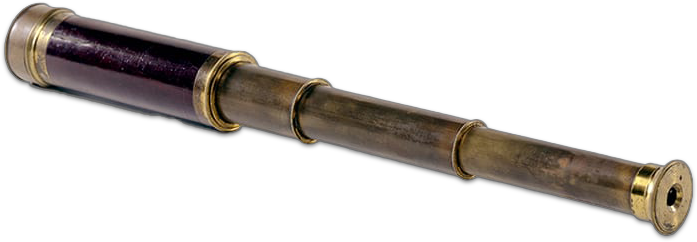
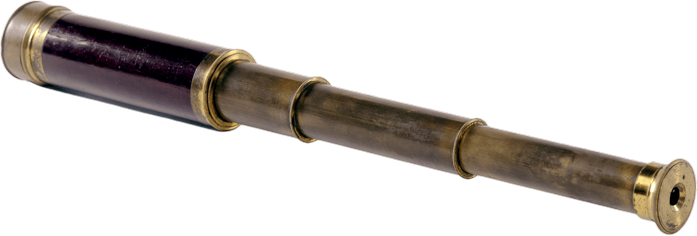
use better quality spyglass image

diff --git a/src/spyglass.html b/src/spyglass.html
@@ -426,7 +426,7 @@
     <div class='background-image-container spyglass'></div>
 
     <div class='fixed-image-container spyglass'>
-      <img src='media/images/spyglass/spyglass-rotated.png' class='spyglass-photo-rotated'></img>
+      <img src='media/images/spyglass/zoom-spyglass.png' class='spyglass-photo-rotated'></img>
     </div>
 
     <div class='animation-frame-container spyglass'>
